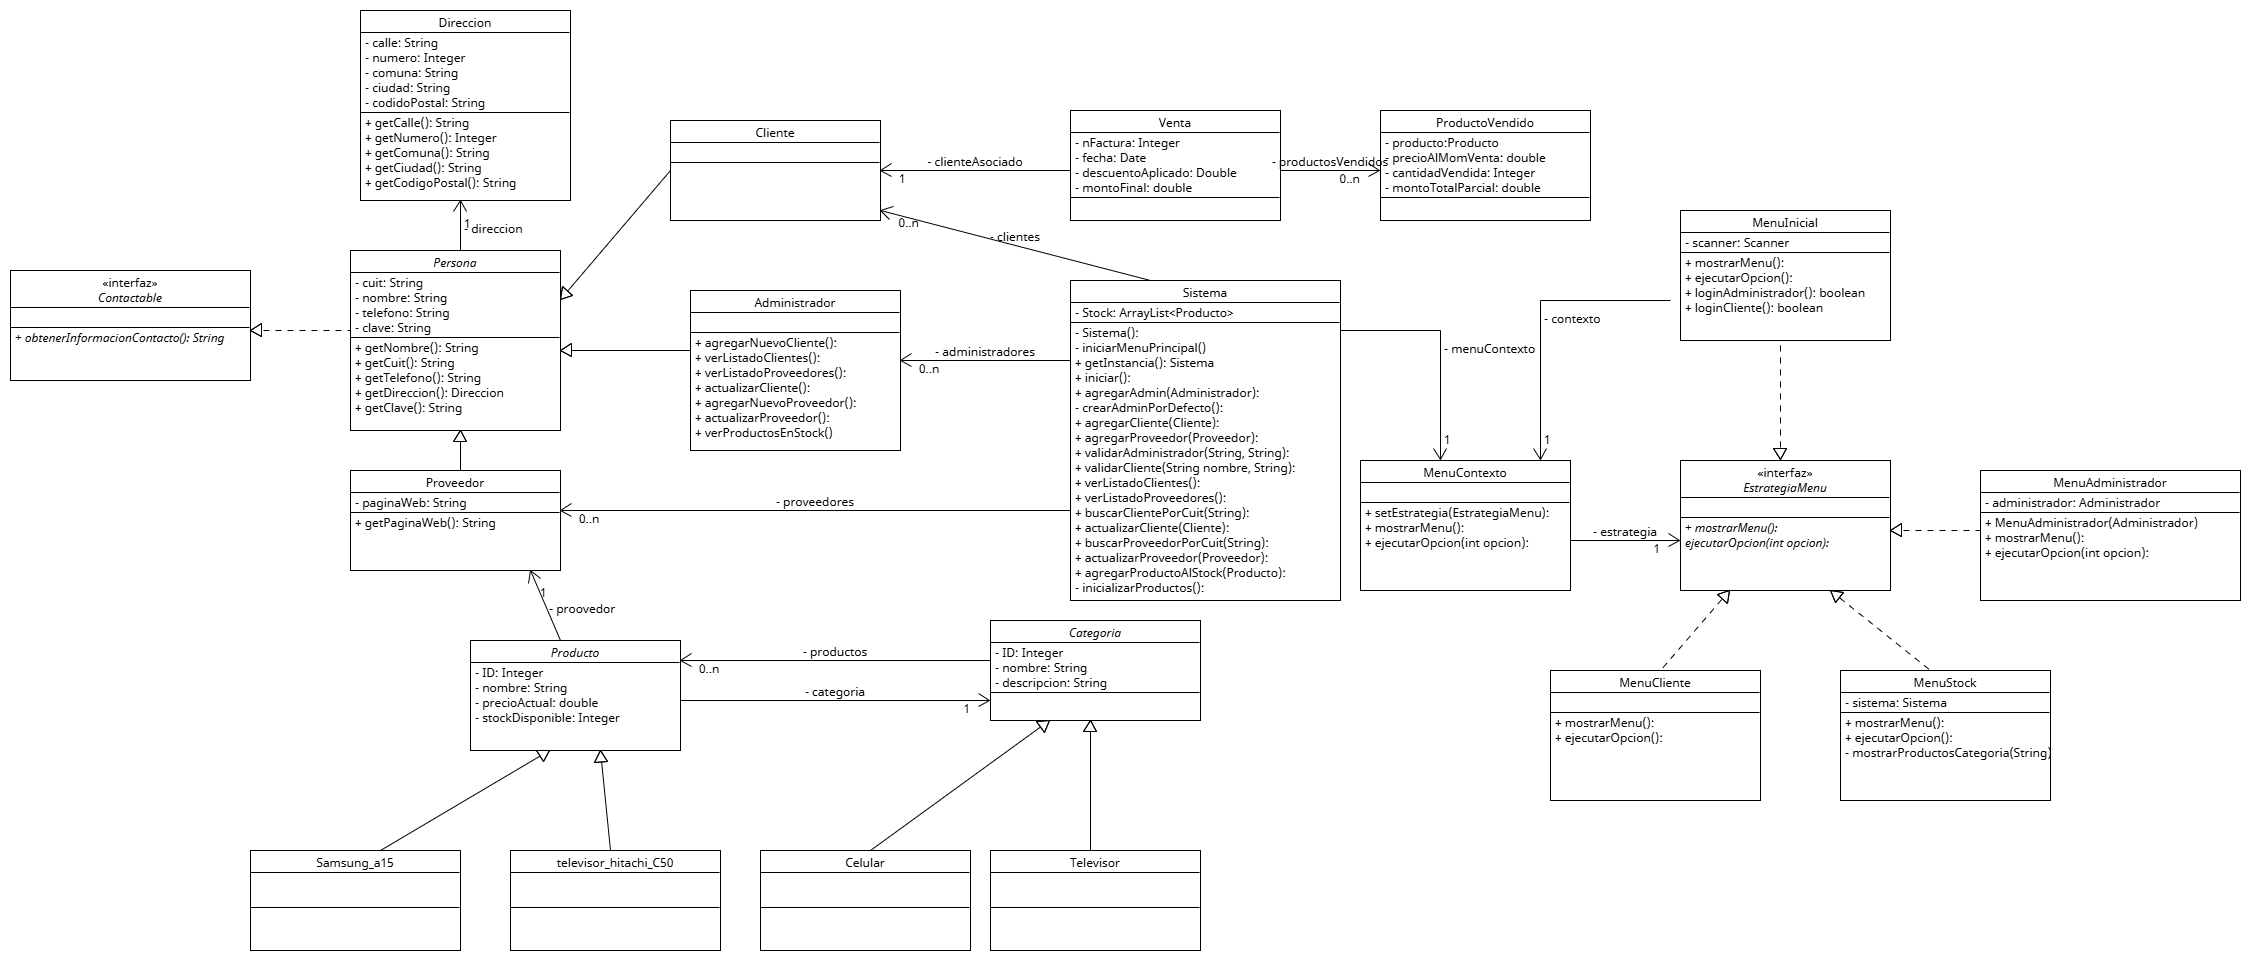
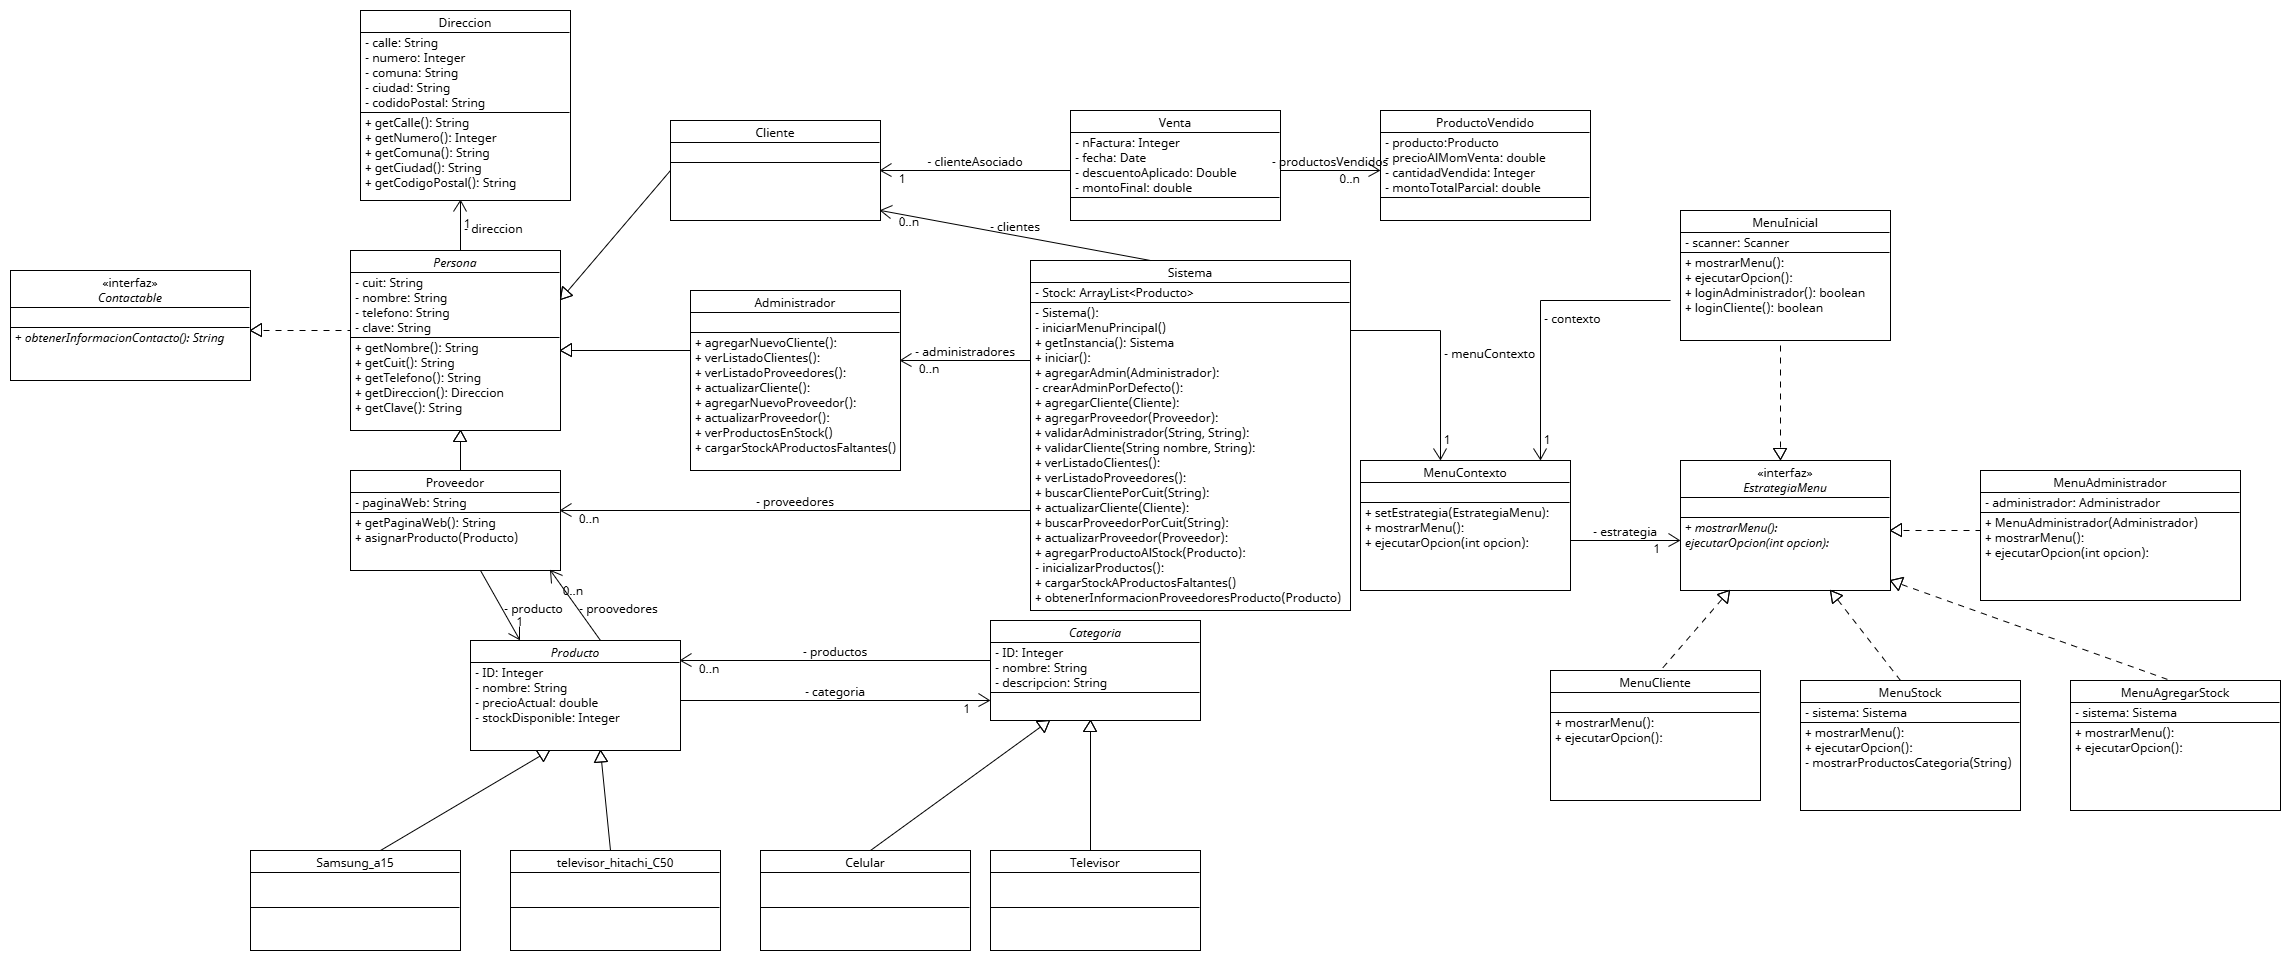
chore: act UML

diff --git a/PatronDisenio_ejercicios/src/ejercicio2tiendaprodtec/personas/Administrador.java b/PatronDisenio_ejercicios/src/ejercicio2tiendaprodtec/personas/Administrador.java
@@ -1,9 +1,7 @@
 package ejercicio2tiendaprodtec.personas;
 
 import ejercicio2tiendaprodtec.Sistema;
-import ejercicio2tiendaprodtec.productos.Producto;
 
-import java.util.ArrayList;
 import java.util.Scanner;
 
 public class Administrador extends Persona {
@@ -249,7 +247,7 @@ public class Administrador extends Persona {
         Sistema.getInstancia().verProductosEnStock();
     }
 
-    public void cargarProductosFaltantes() {
-        Sistema.getInstancia().cargarProductosFaltantes();
+    public void cargarStockAProductosFaltantes() {
+        Sistema.getInstancia().cargarStockAProductosFaltantes();
     }
 }

diff --git a/PatronDisenio_ejercicios/src/ejercicio2tiendaprodtec/menu/MenuAdministrador.java b/PatronDisenio_ejercicios/src/ejercicio2tiendaprodtec/menu/MenuAdministrador.java
@@ -52,7 +52,7 @@ public class MenuAdministrador implements EstrategiaMenu {
                 administrador.verProductosEnStock();
                 break;
             case 9:
-                administrador.cargarProductosFaltantes();
+                administrador.cargarStockAProductosFaltantes();
                 break;
             case 0:
                 System.out.println("Volviendo al menú principal...");

diff --git a/PatronDisenio_ejercicios/src/ejercicio2tiendaprodtec/Sistema.java b/PatronDisenio_ejercicios/src/ejercicio2tiendaprodtec/Sistema.java
@@ -216,7 +216,7 @@ public class Sistema {
         }
     }
 
-    public void cargarProductosFaltantes() {
+    public void cargarStockAProductosFaltantes() {
         MenuAgregarStock menuAgregarStock = new MenuAgregarStock();
         Scanner scanner = new Scanner(System.in);
 

diff --git a/PatronDisenio_ejercicios/src/ejercicio2tiendaprodtec/Venta.java b/PatronDisenio_ejercicios/src/ejercicio2tiendaprodtec/Venta.java
@@ -1,6 +1,7 @@
 package ejercicio2tiendaprodtec;
 
 import ejercicio2tiendaprodtec.personas.Cliente;
+import ejercicio2tiendaprodtec.productos.ProductoVendido;
 
 import java.util.ArrayList;
 import java.util.Date;

diff --git a/PatronDisenio_ejercicios/src/ejercicio2tiendaprodtec/productos/ProductoVendido.java b/PatronDisenio_ejercicios/src/ejercicio2tiendaprodtec/productos/ProductoVendido.java
@@ -1,6 +1,4 @@
-package ejercicio2tiendaprodtec;
-
-import ejercicio2tiendaprodtec.productos.Producto;
+package ejercicio2tiendaprodtec.productos;
 
 public class ProductoVendido {
     private Producto producto;
